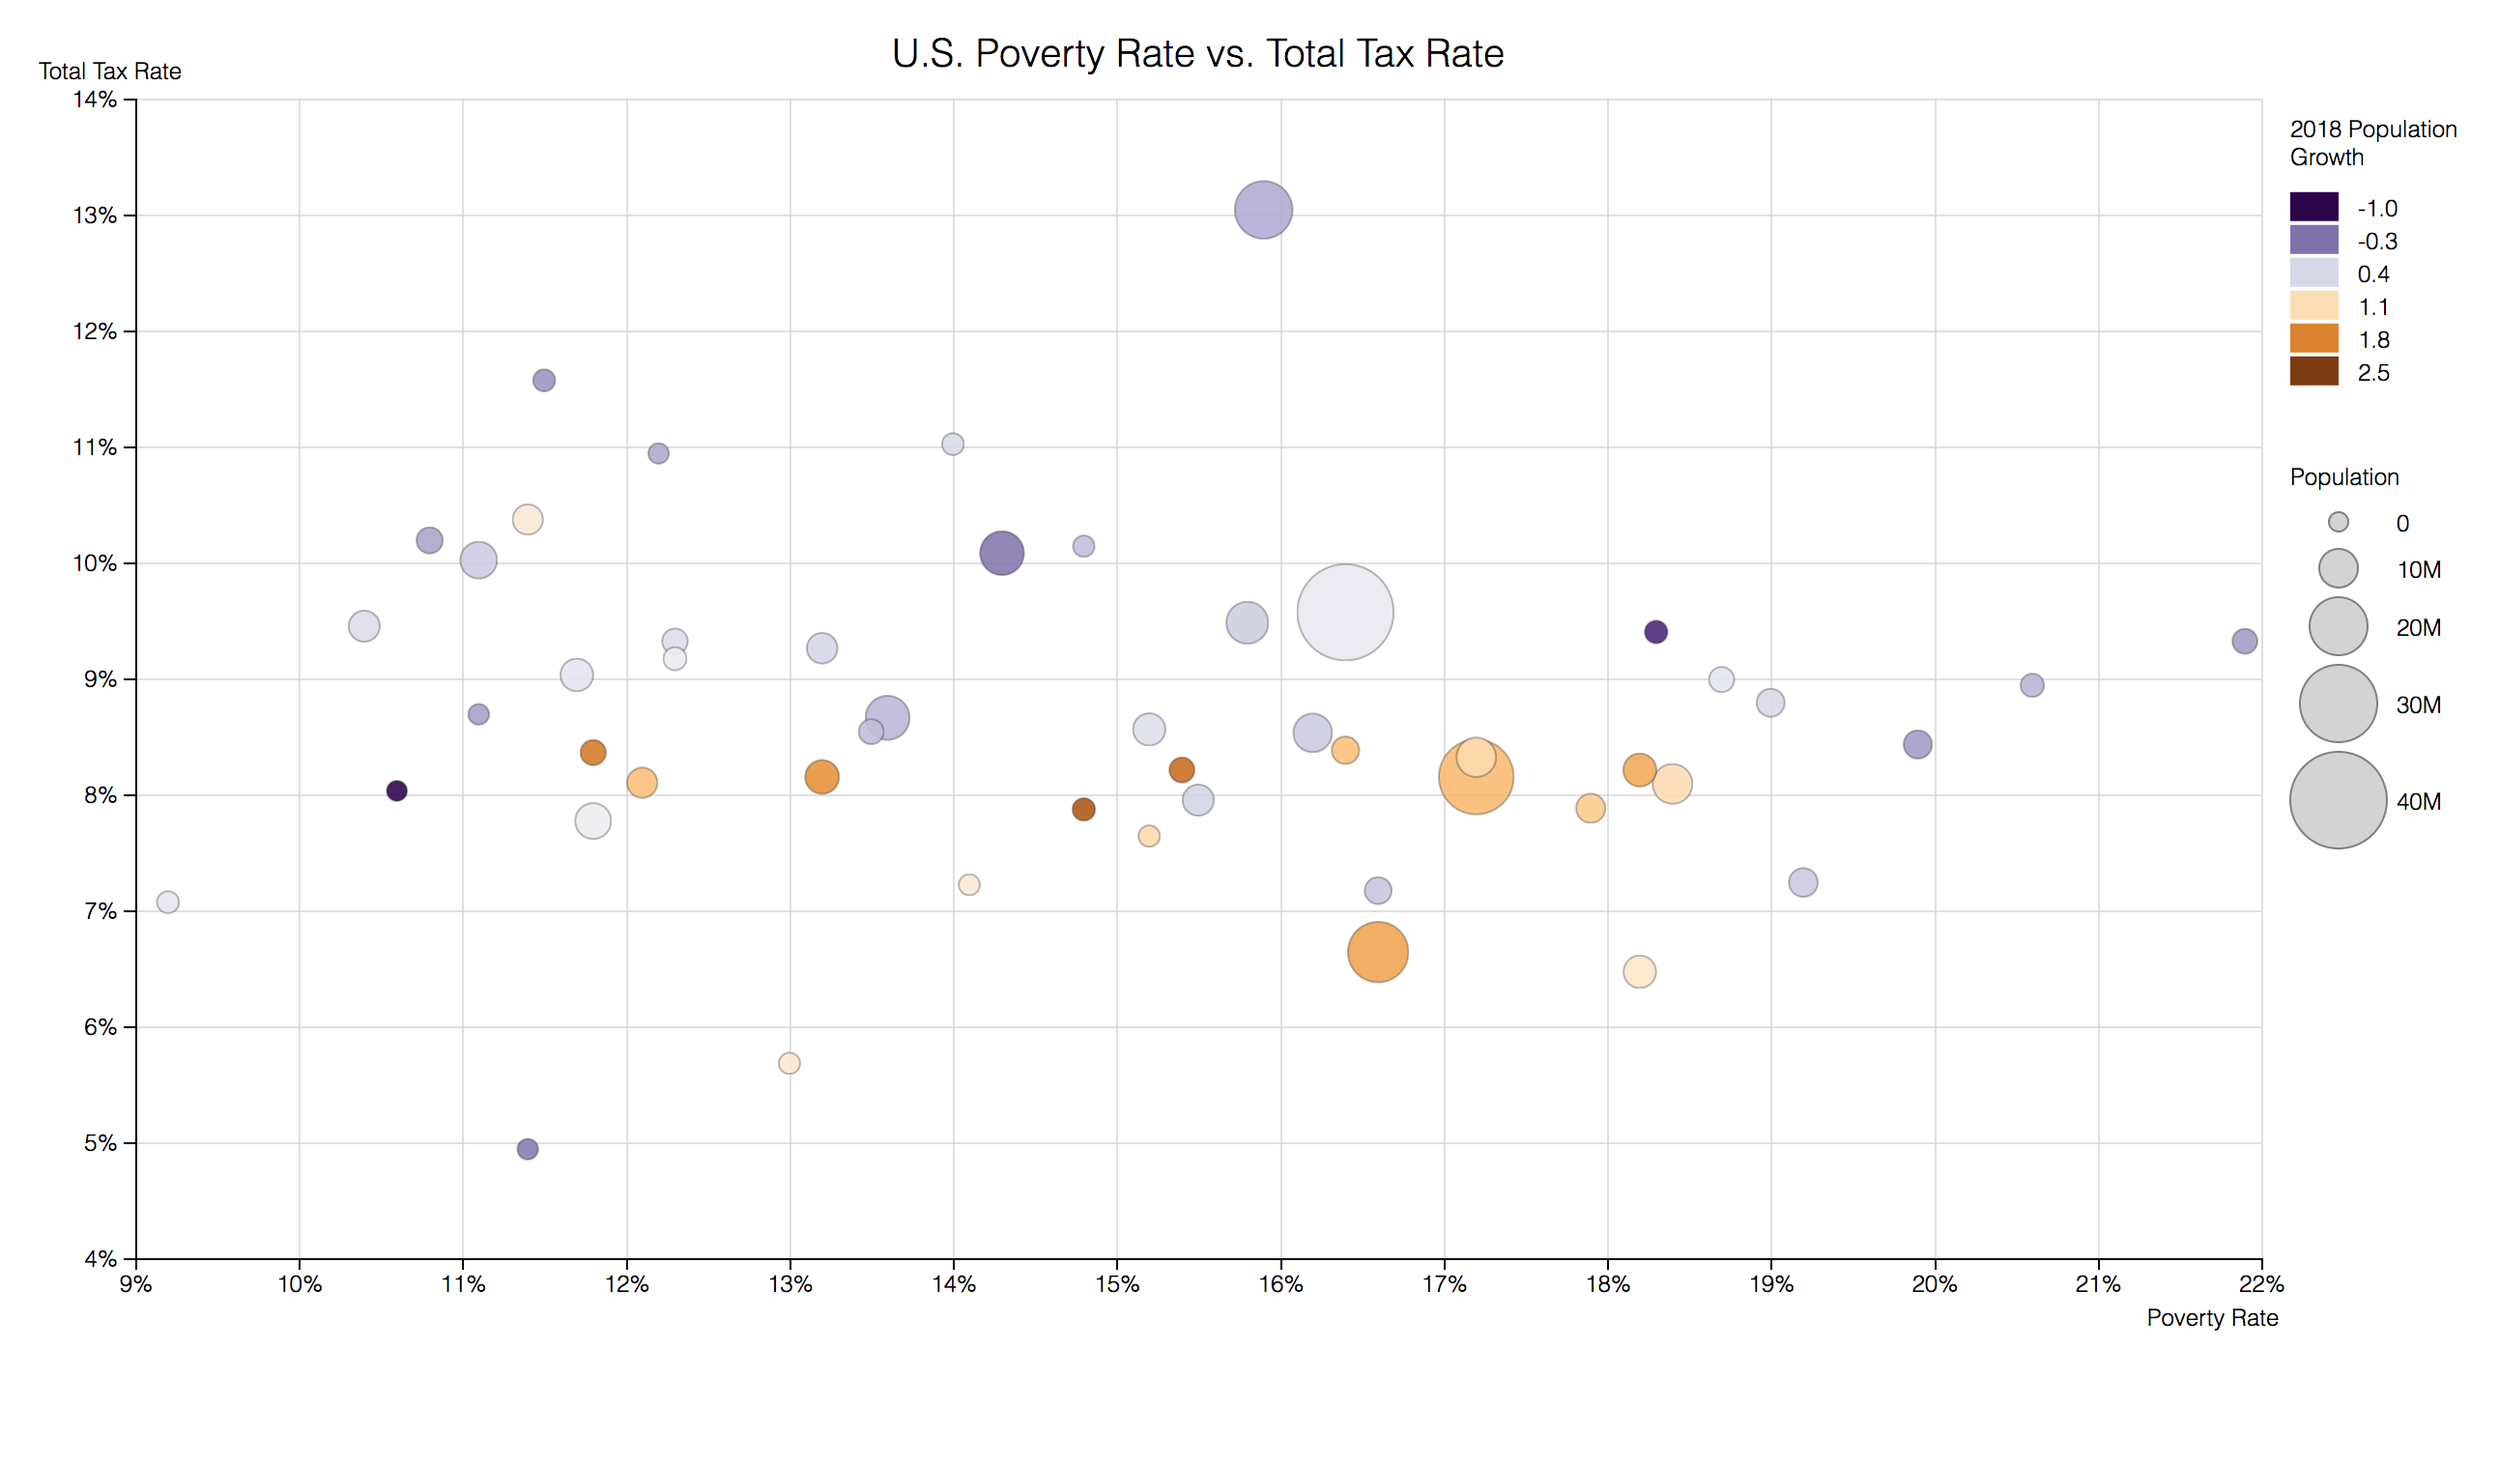
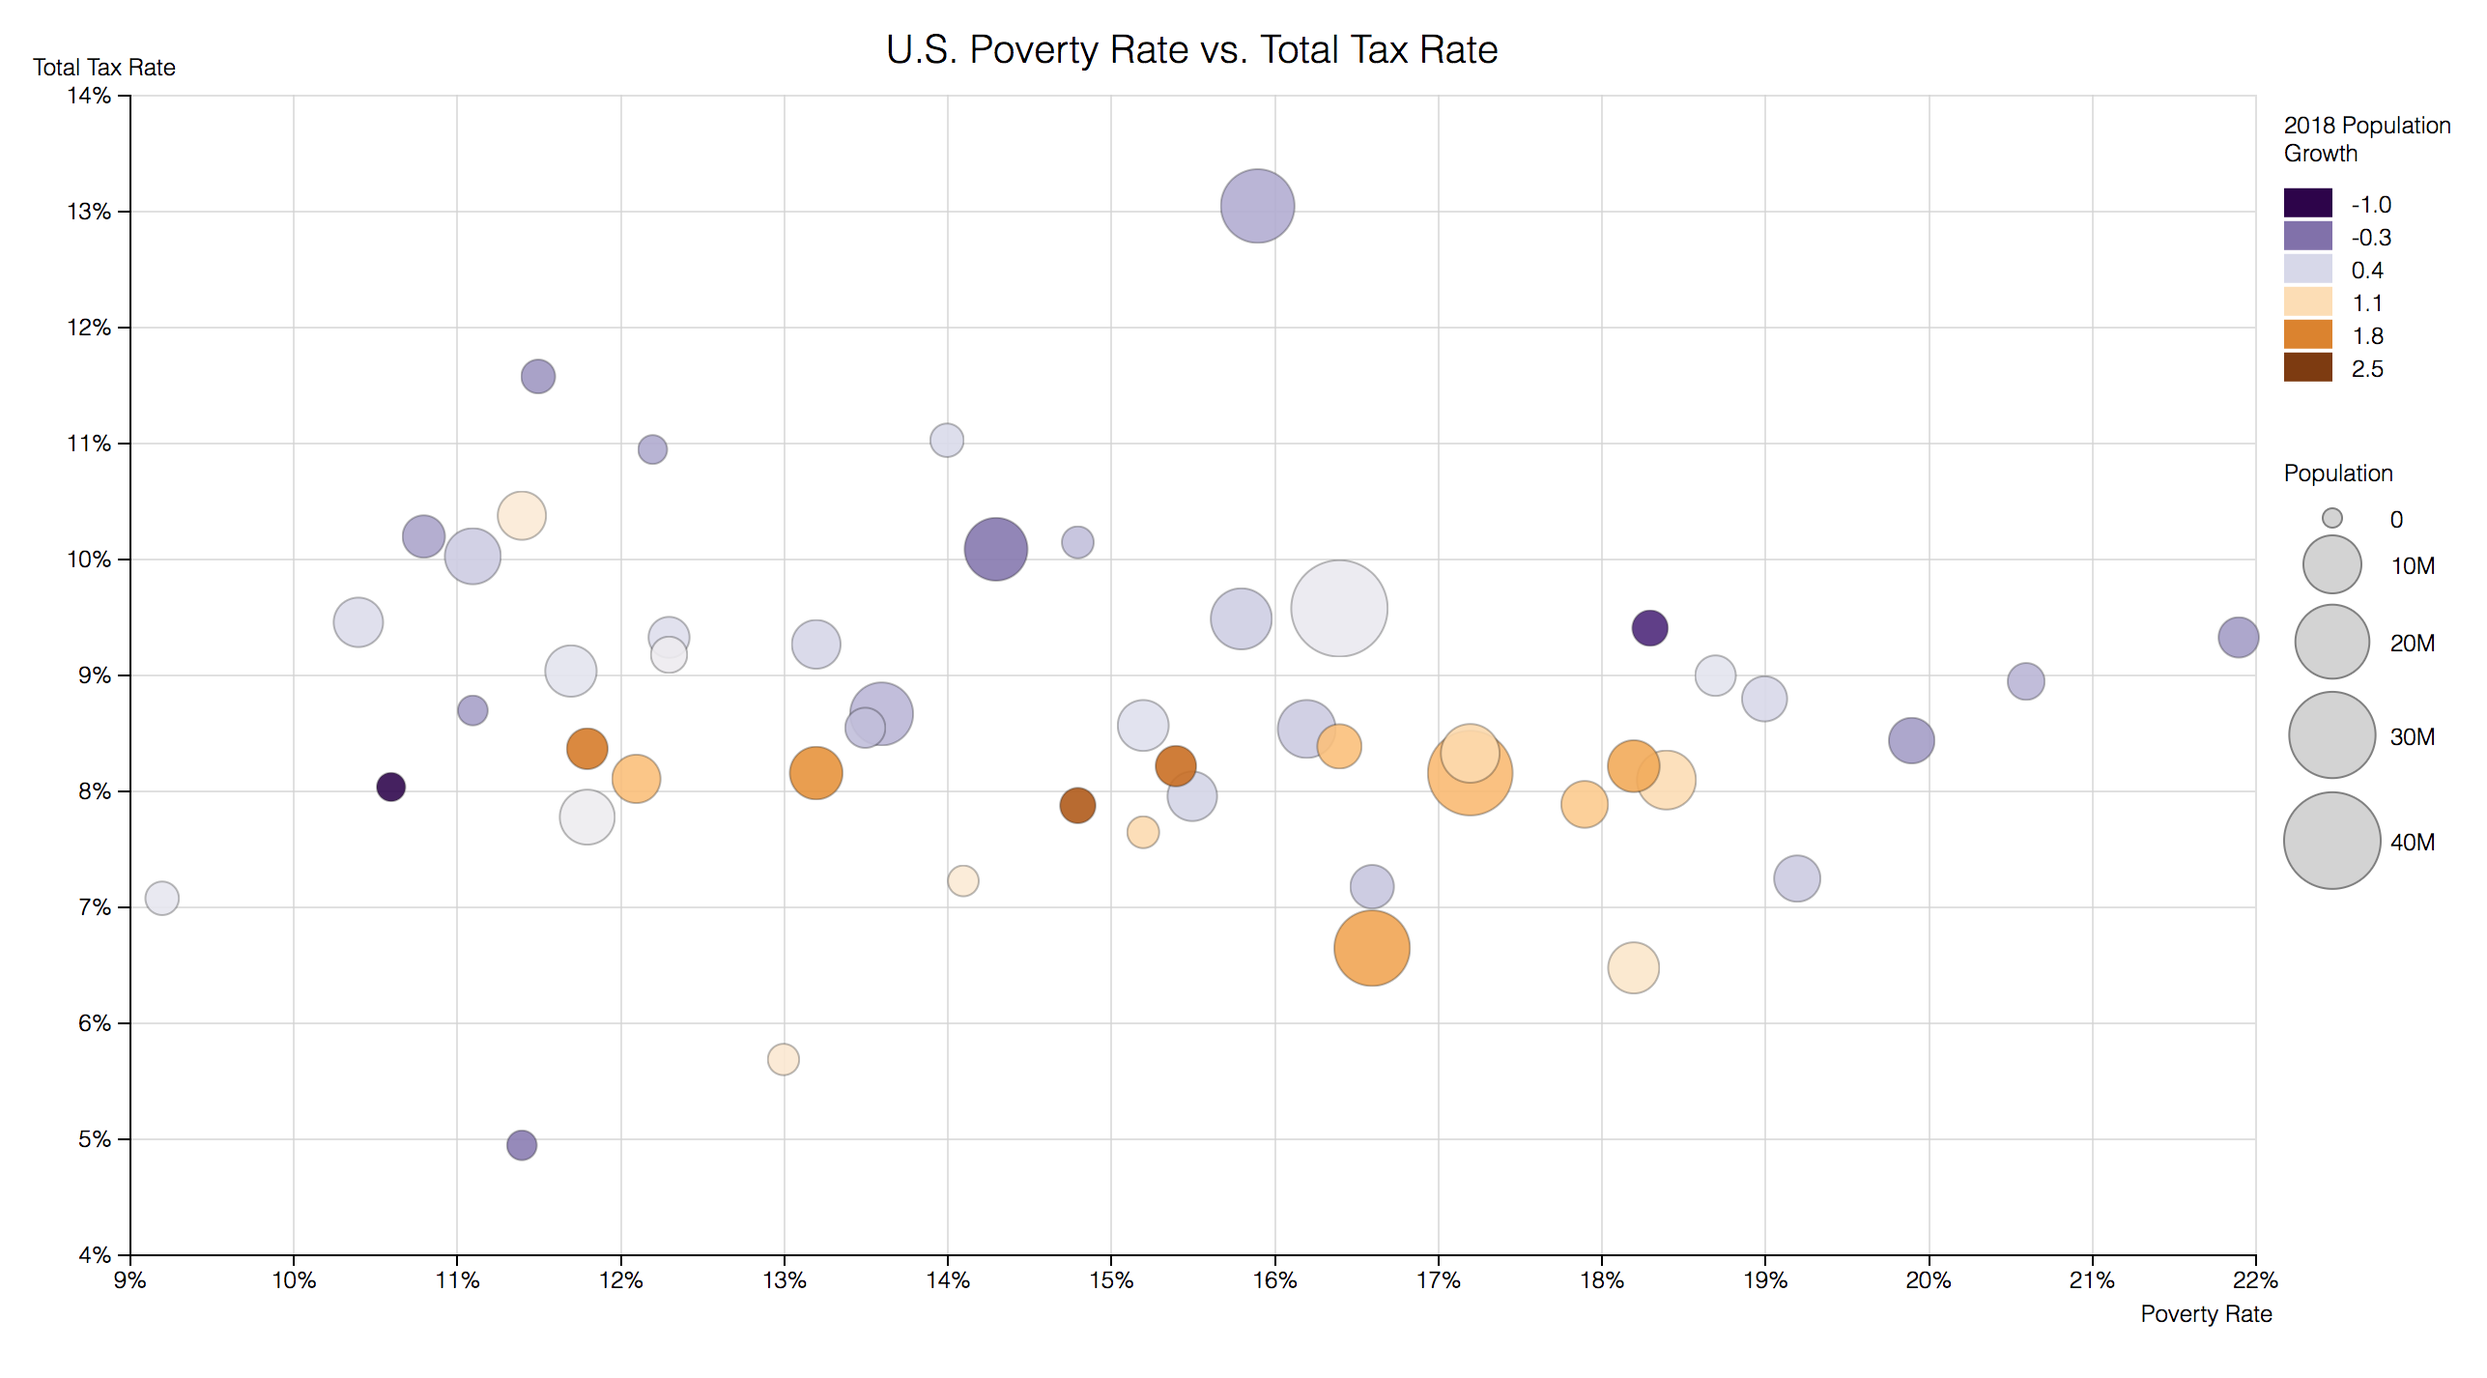
change scale

diff --git a/index.html b/index.html
@@ -77,7 +77,7 @@ var x = d3.scaleLinear()
 var y = d3.scaleLinear()
     .range([height, 0]);
 
-var r = d3.scaleLinear()
+var r = d3.scaleSqrt()
     .range([5,25])
 
 var color = d3.scaleSequential(d3.interpolatePuOr)
@@ -99,8 +99,6 @@ var svg = d3.select("body").append("svg")
     .attr("height", height + margin.top + margin.bottom)
     .append("g")
     .attr("transform", "translate(" + margin.left + "," + margin.top + ")");
-
-
 
 d3.csv("states.csv", function(error, data) {
     if (error) throw error;
